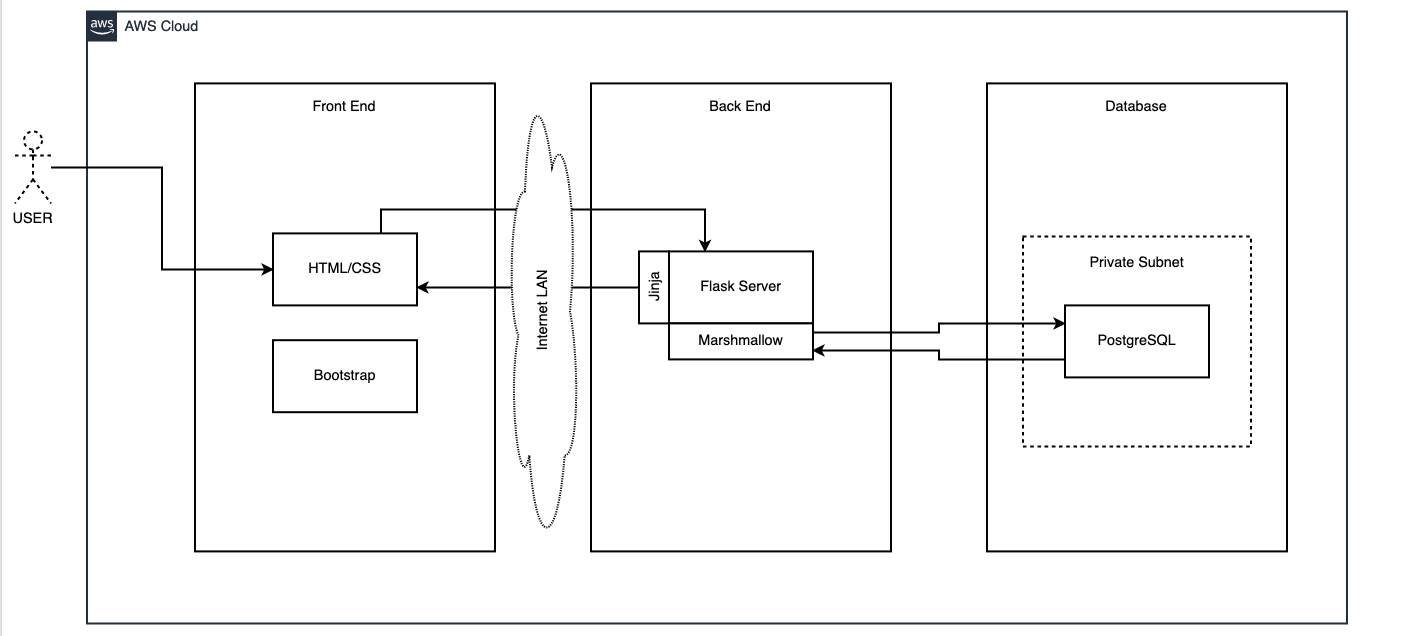
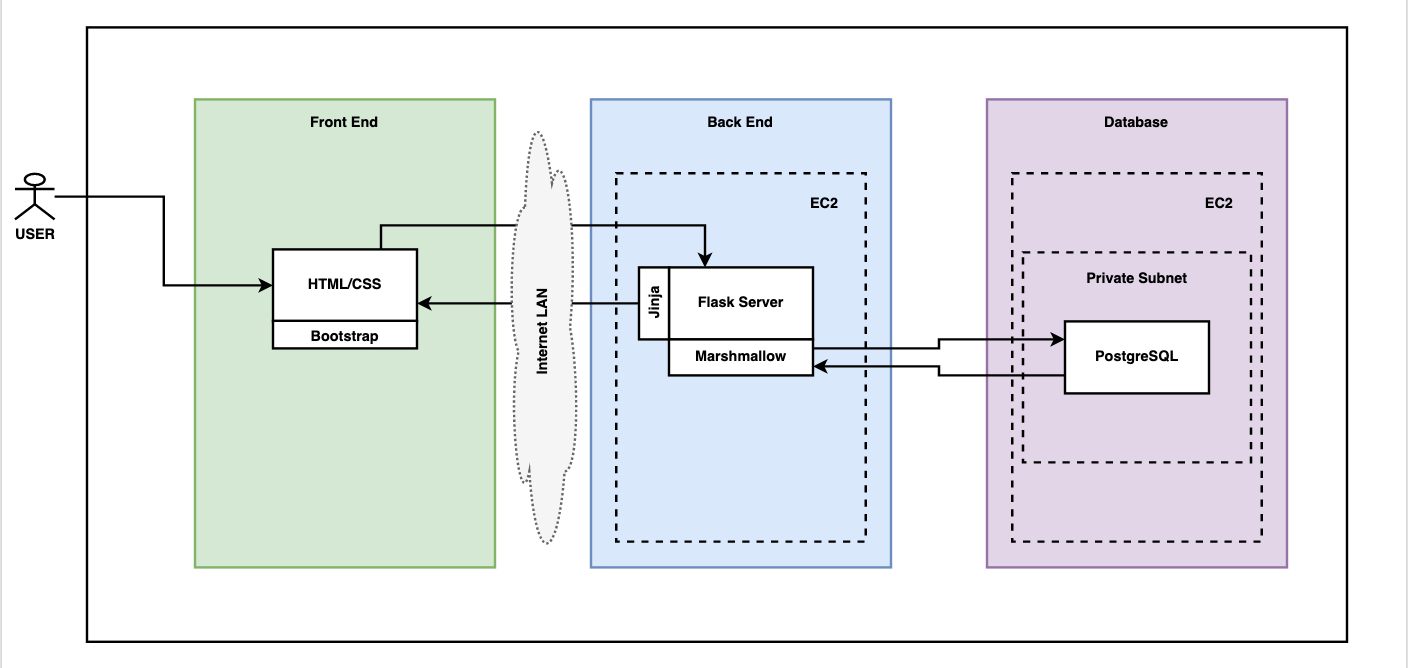
updated dataflow & app architecture diagrams

diff --git a/README.md b/README.md
@@ -114,5 +114,7 @@ Note: All tasks were assigned to myself as I was the only person working on this
 ![](./docs/notion/2021-02-16.png)
 **17 February 2021**
 ![](./docs/notion/2021-02-17.png)
+**18 February 2021**
+![](./docs/notion/2021-02-18.png)
 
 
